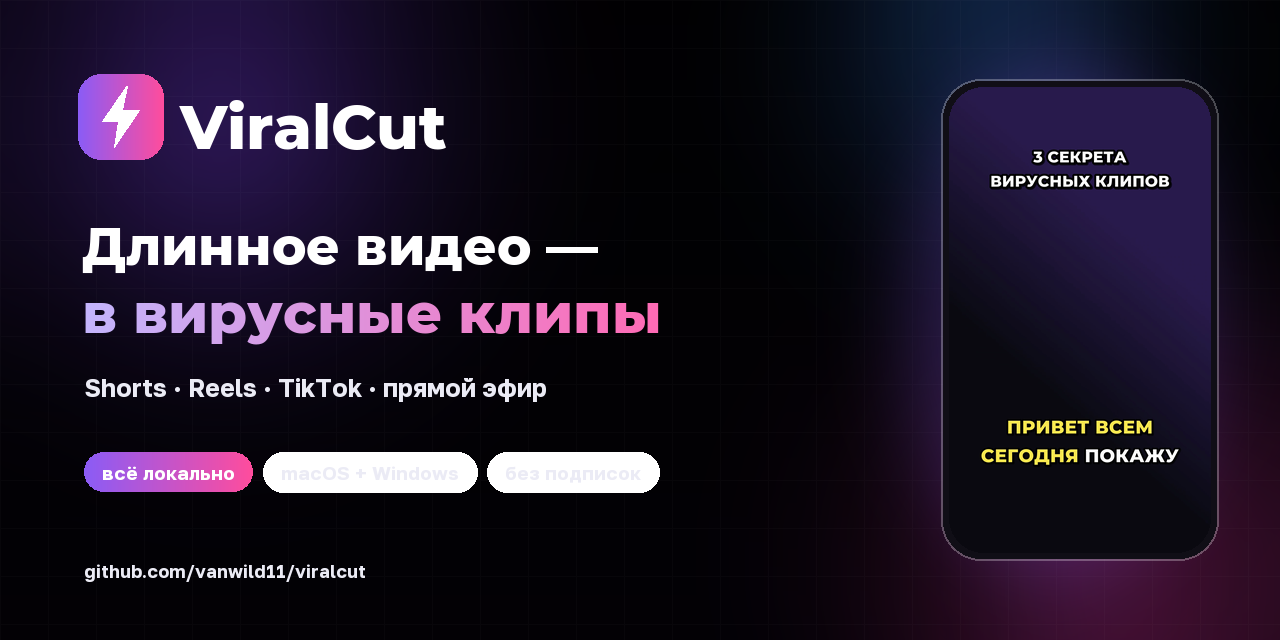
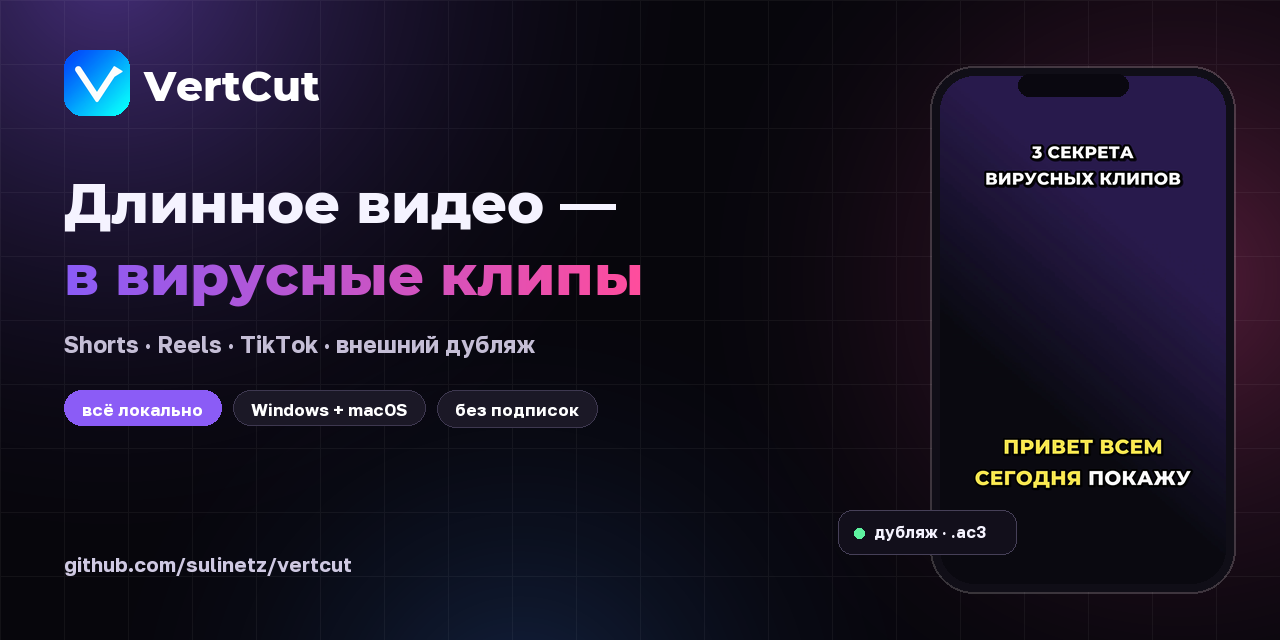
Social preview image for the repository

diff --git a/tools/make_social_preview.py b/tools/make_social_preview.py
@@ -1,0 +1,162 @@
+"""Обложка репозитория и соцсетей (1280x640) из реальных ассетов VertCut.
+
+Запуск: python tools/make_social_preview.py
+Результат: docs/github/social-preview.png
+"""
+from __future__ import annotations
+
+import math
+from pathlib import Path
+
+from PIL import Image, ImageDraw, ImageFont
+
+ROOT = Path(__file__).resolve().parent.parent
+OUT = ROOT / "docs" / "github" / "social-preview.png"
+ICON = ROOT / "assets" / "icon_1024.png"
+PHONE = ROOT / "docs" / "screenshots" / "subtitles-karaoke.png"
+FONT_BOLD = ROOT / "assets" / "fonts" / "Montserrat-ExtraBold.ttf"
+FONT_TEXT = ROOT / "assets" / "fonts" / "GolosText-Bold.ttf"
+
+W, H = 1280, 640
+
+
+def radial(size, center, radius, color):
+    """Мягкое радиальное свечение на прозрачном слое."""
+    layer = Image.new("RGBA", size, (0, 0, 0, 0))
+    px = layer.load()
+    cx, cy = center
+    for y in range(size[1]):
+        dy = y - cy
+        for x in range(size[0]):
+            dx = x - cx
+            d = math.hypot(dx, dy)
+            if d >= radius:
+                continue
+            k = (1.0 - d / radius) ** 2
+            px[x, y] = (color[0], color[1], color[2], int(color[3] * k))
+    return layer
+
+
+def gradient_text(base, text, font, xy, c1, c2):
+    mask = Image.new("L", base.size, 0)
+    ImageDraw.Draw(mask).text(xy, text, font=font, fill=255)
+    bbox = mask.getbbox()
+    if not bbox:
+        return
+    mask = mask.crop(bbox)
+    grad = Image.new("RGB", mask.size)
+    gd = ImageDraw.Draw(grad)
+    for x in range(mask.size[0]):
+        k = x / max(1, mask.size[0] - 1)
+        gd.line([(x, 0), (x, mask.size[1])],
+                fill=(int(c1[0] + (c2[0] - c1[0]) * k),
+                      int(c1[1] + (c2[1] - c1[1]) * k),
+                      int(c1[2] + (c2[2] - c1[2]) * k)))
+    base.paste(grad, (bbox[0], bbox[1]), mask)
+
+
+def chip(draw, x, y, text, font, accent=False):
+    pad_x, pad_y = 18, 11
+    box = draw.textbbox((0, 0), text, font=font)
+    w = box[2] - box[0] + pad_x * 2
+    h = box[3] - box[1] + pad_y * 2
+    draw.rounded_rectangle([x, y, x + w, y + h], radius=h // 2,
+                           fill=(139, 92, 246) if accent else (27, 24, 38),
+                           outline=None if accent else (62, 56, 80), width=1)
+    draw.text((x + pad_x, y + pad_y - 2), text, font=font,
+              fill=(255, 255, 255))
+    return x + w
+
+
+def main() -> None:
+    canvas = Image.new("RGBA", (W, H), (7, 6, 12, 255))
+    canvas.alpha_composite(radial((W, H), (110, -40), 620, (139, 92, 246, 120)))
+    canvas.alpha_composite(radial((W, H), (1180, 280), 520, (255, 77, 157, 80)))
+    canvas.alpha_composite(radial((W, H), (520, 720), 460, (59, 130, 246, 60)))
+
+    grid = Image.new("RGBA", (W, H), (0, 0, 0, 0))
+    gd = ImageDraw.Draw(grid)
+    for x in range(0, W, 64):
+        gd.line([(x, 0), (x, H)], fill=(255, 255, 255, 12))
+    for y in range(0, H, 64):
+        gd.line([(0, y), (W, y)], fill=(255, 255, 255, 12))
+    canvas.alpha_composite(grid)
+
+    logo = Image.open(ICON).convert("RGBA")
+    # В исходном PNG вокруг значка есть белое поле: обрезаем его по цвету,
+    # иначе на тёмной обложке появляется белый квадрат.
+    colored = logo.convert("RGB")
+    pix = colored.load()
+    xs, ys = [], []
+    for y in range(logo.height):
+        for x in range(logo.width):
+            r, g, b = pix[x, y]
+            if b > r + 25 and b > g - 10:
+                xs.append(x)
+                ys.append(y)
+    if xs:
+        box = (max(0, min(xs) + 2), max(0, min(ys) + 2),
+               min(logo.width, max(xs) - 1), min(logo.height, max(ys) - 1))
+        logo = logo.crop(box)
+    logo = logo.resize((66, 66), Image.LANCZOS)
+    lm = Image.new("L", logo.size, 0)
+    ImageDraw.Draw(lm).rounded_rectangle([0, 0, 65, 65], radius=18, fill=255)
+    canvas.paste(logo, (64, 50), lm)
+    draw = ImageDraw.Draw(canvas)
+    draw.text((144, 60), "VertCut", font=ImageFont.truetype(str(FONT_BOLD), 42),
+              fill=(255, 255, 255, 255))
+
+    title = ImageFont.truetype(str(FONT_BOLD), 56)
+    draw.text((64, 168), "Длинное видео —", font=title, fill=(245, 243, 255, 255))
+    gradient_text(canvas, "в вирусные клипы", title, (64, 240),
+                  (139, 92, 246), (255, 77, 157))
+
+    sub = ImageFont.truetype(str(FONT_TEXT), 23)
+    draw.text((64, 330), "Shorts · Reels · TikTok · внешний дубляж",
+              font=sub, fill=(197, 190, 214, 255))
+
+    chip_font = ImageFont.truetype(str(FONT_TEXT), 17)
+    x = chip(draw, 64, 390, "всё локально", chip_font, accent=True)
+    x = chip(draw, x + 12, 390, "Windows + macOS", chip_font)
+    chip(draw, x + 12, 390, "без подписок", chip_font)
+
+    foot = ImageFont.truetype(str(FONT_TEXT), 20)
+    draw.text((64, 552), "github.com/sulinetz/vertcut", font=foot,
+              fill=(207, 201, 226, 255))
+
+    # Телефон с вертикальным кадром.
+    phone_w, phone_h = 286, 508
+    px, py = 930, 66
+    frame = Image.new("RGBA", (phone_w + 20, phone_h + 20), (0, 0, 0, 0))
+    fd = ImageDraw.Draw(frame)
+    fd.rounded_rectangle([0, 0, phone_w + 19, phone_h + 19], radius=44,
+                         fill=(16, 14, 23, 255), outline=(255, 255, 255, 46), width=2)
+    screen = Image.open(PHONE).convert("RGB").resize((phone_w, phone_h), Image.LANCZOS)
+    mask = Image.new("L", (phone_w, phone_h), 0)
+    ImageDraw.Draw(mask).rounded_rectangle([0, 0, phone_w - 1, phone_h - 1],
+                                           radius=34, fill=255)
+    frame.paste(screen, (10, 10), mask)
+    canvas.alpha_composite(frame, (px, py))
+
+    fd2 = ImageDraw.Draw(canvas)
+    fd2.rounded_rectangle([px + 88, py + 8, px + 198, py + 30], radius=11,
+                          fill=(10, 8, 16, 255))
+
+    badge_font = ImageFont.truetype(str(FONT_TEXT), 16)
+    badge_w = 178
+    badge_x, badge_y = px - 92, py + phone_h - 64
+    fd2.rounded_rectangle([badge_x, badge_y, badge_x + badge_w, badge_y + 44],
+                          radius=14, fill=(18, 15, 27),
+                          outline=(70, 64, 88), width=1)
+    fd2.ellipse([badge_x + 16, badge_y + 18, badge_x + 26, badge_y + 28],
+                fill=(94, 242, 160, 255))
+    fd2.text((badge_x + 36, badge_y + 12), "дубляж · .ac3", font=badge_font,
+             fill=(245, 243, 255, 255))
+
+    OUT.parent.mkdir(parents=True, exist_ok=True)
+    canvas.convert("RGB").save(OUT, optimize=True)
+    print(OUT, OUT.stat().st_size)
+
+
+if __name__ == "__main__":
+    main()
